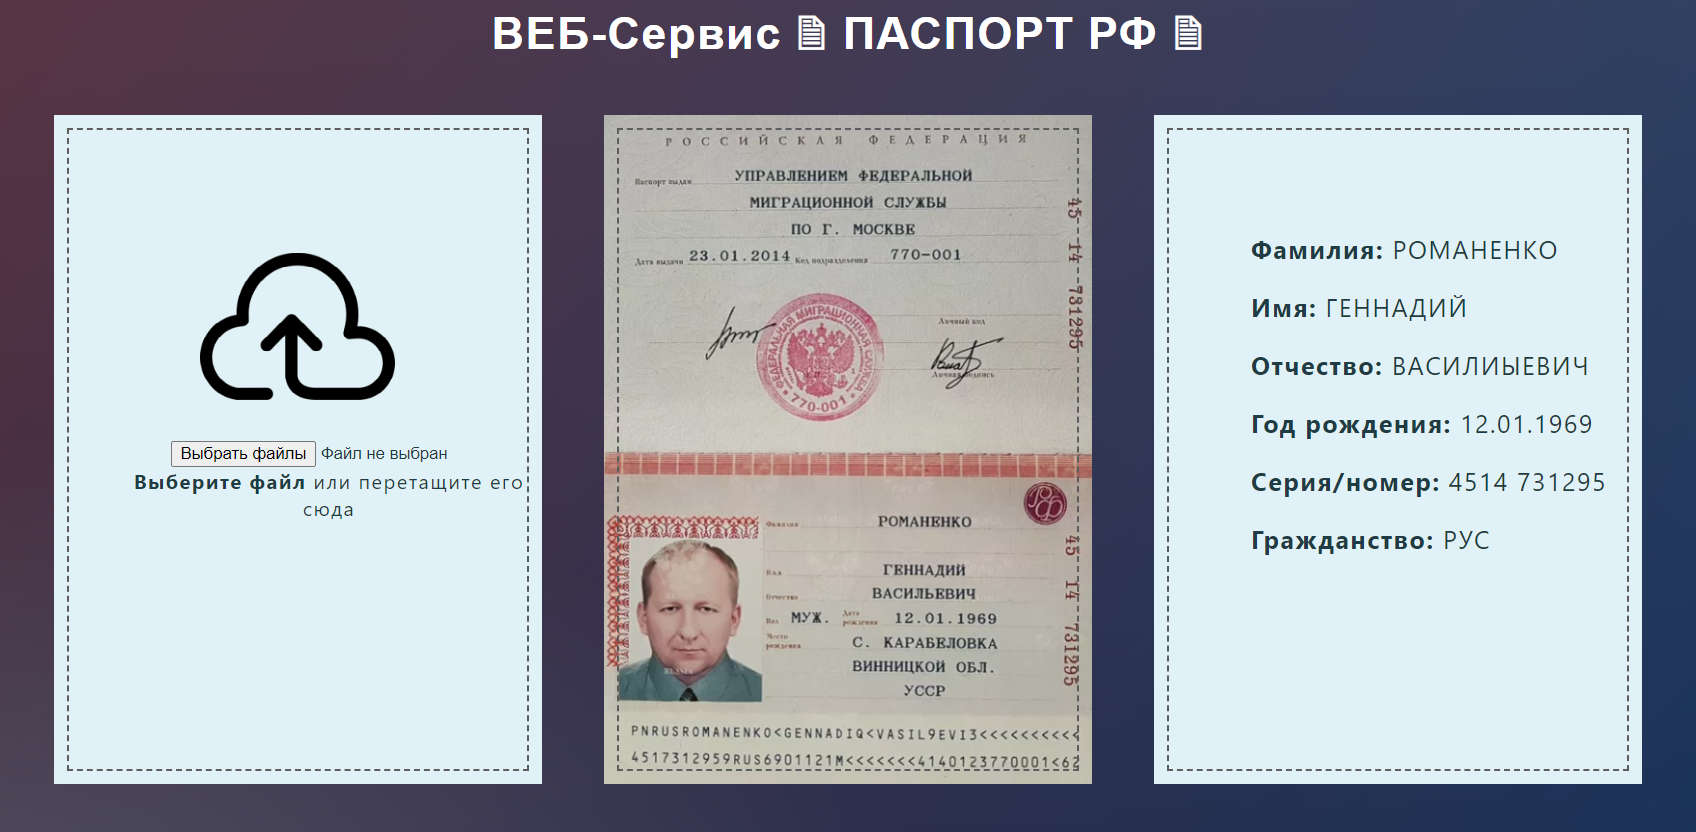
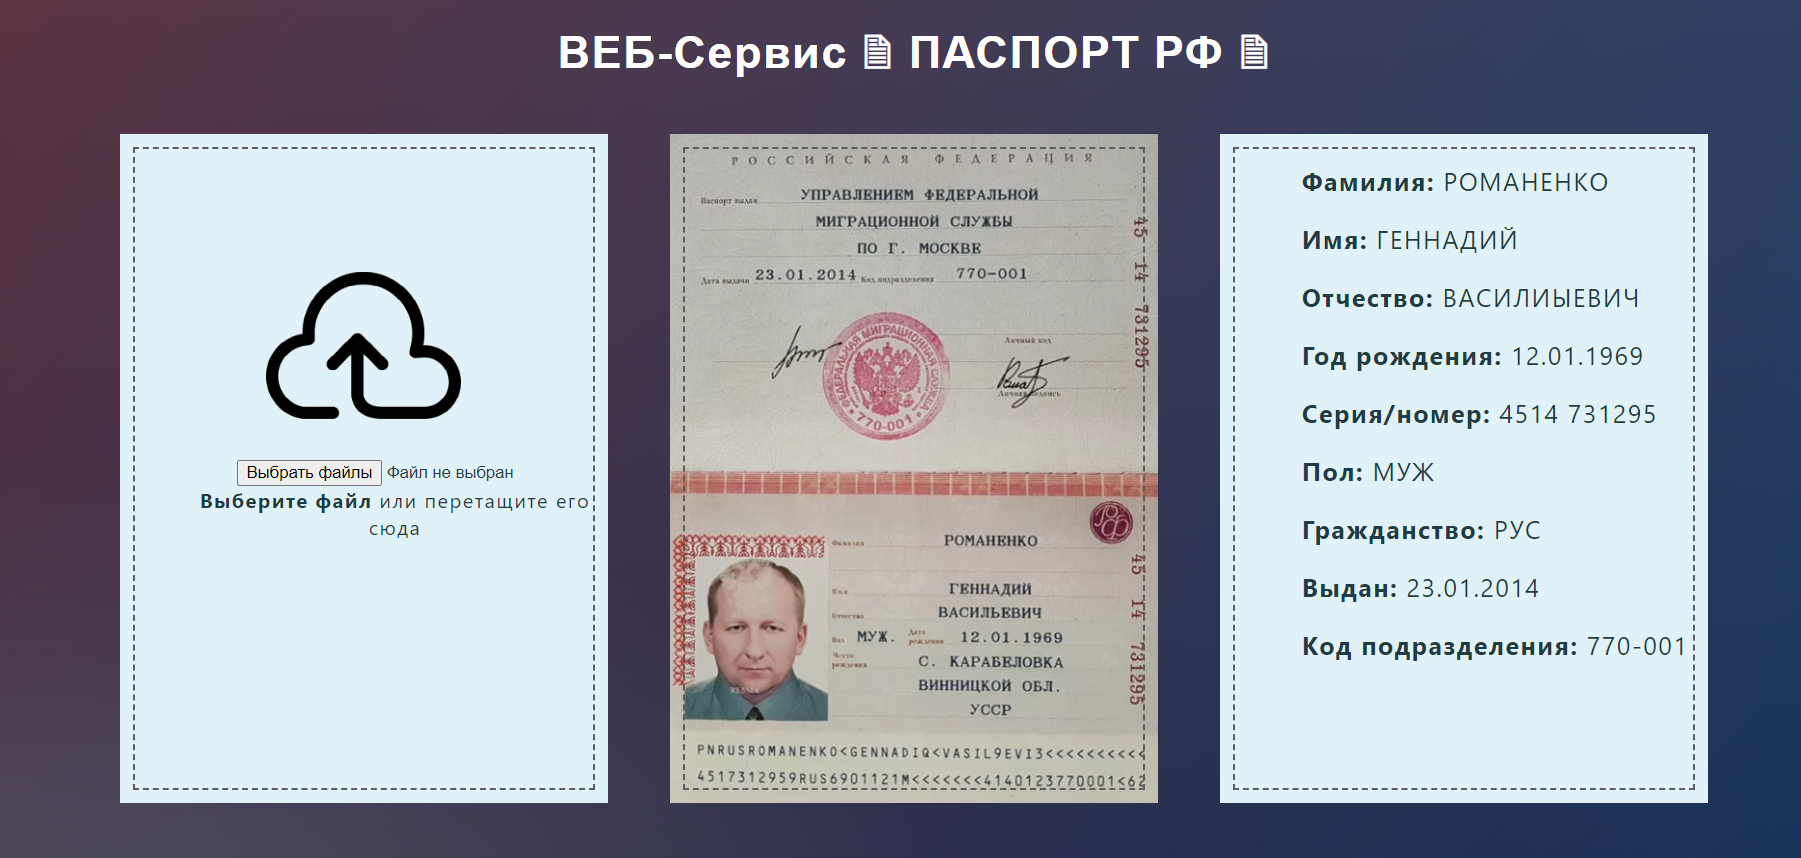
feat(ocr): Add new attrs

Changed region(s): [[0.0312, 0.125, 0.9688, 0.9688], [0.2812, 0.0, 0.7188, 0.0938]]

diff --git a/templates/index.html b/templates/index.html
@@ -38,12 +38,15 @@
     <div class="block">
         <form id="export-container" action="send.php">
             <div align="left">
-                <p><b>Фамилия:</b> {{ surname }}</p>
-                <p><b>Имя:</b> {{ name }}</p>
-                <p><b>Отчество:</b> {{ second }}</p>
-                <p><b>Год рождения:</b> {{ year }}</p>
-                <p><b>Серия/номер:</b> {{ series }} {{ num }}</p>
-                <p><b>Гражданство:</b> {{ ctz }}</p>
+                <p><b>Фамилия:</b> {{ surname }} </p>
+                <p><b>Имя:</b> {{ name }} </p>
+                <p><b>Отчество:</b> {{ second }} </p>
+                <p><b>Год рождения:</b> {{ year }} </p>
+                <p><b>Серия/номер:</b> {{ series }} {{ num }} </p>
+                <p><b>Пол:</b> {{ gender }} </p>
+                <p><b>Гражданство:</b> {{ ctz }} </p>
+                <p><b>Выдан:</b> {{ release }} </p>
+                <p><b>Код подразделения:</b> {{ code }} </p>
             </div>
         </form>
     </div>

diff --git a/pasportocr.py b/pasportocr.py
@@ -55,17 +55,16 @@ class PasportOCR:
         except AttributeError:
             print("Изображение не загрузилось, проверьте путь")
         
-        # Фильтры ( оттенки серого, размытие по Гауссу, пороговая обработка)
+        # Фильтры (оттенки серого, размытие по Гауссу, пороговая обработка)
         gray = cv2.cvtColor(img, cv2.COLOR_BGR2GRAY)
         blur = cv2.GaussianBlur(gray, (3,3), 0)
         thresh = cv2.threshold(blur, 0, 255, cv2.THRESH_BINARY+cv2.THRESH_OTSU)[1]
         kernel = np.ones((7,7), np.uint8)
-        kernel = cv2.getStructuringElement(cv2.MORPH_RECT,(3, 3)) 
+        kernel = cv2.getStructuringElement(cv2.MORPH_RECT,(3, 3))
         
         # Морфология изображения (расширение, открытие, закрытие изображения)
-        # global morph
-        morph = cv2.dilate(img, kernel, iterations=9)
-        morph = cv2.morphologyEx(thresh, cv2.MORPH_OPEN, kernel)
+        morph = cv2.dilate(img, kernel, iterations=9)             # 
+        morph = cv2.morphologyEx(thresh, cv2.MORPH_OPEN, kernel)  # Morphological Gradient
         morph = cv2.morphologyEx(morph, cv2.MORPH_CLOSE, kernel)
         
         # Поиск контуров (извлечение внешних контуров, получение только 2х основных точек)
@@ -84,7 +83,7 @@ class PasportOCR:
         cv2.drawContours(page, [big_contour], 0, (255,255,255), -1)
         peri = cv2.arcLength(big_contour, True)
         corners = cv2.approxPolyDP(big_contour, 0.04 * peri, True)
-        global polygon
+
         polygon = img.copy()
         cv2.polylines(polygon, [corners], True, (0,0,255), 3, cv2.LINE_AA)
         yarr = list()
@@ -103,7 +102,7 @@ class PasportOCR:
         pX = max(yarr)
         y = min(xarr)
         pY = max(xarr)
-        global photo
+
         photo = img[y:pY, x:pX]
         return photo
 
@@ -160,17 +159,27 @@ class PasportOCR:
         if mrzText[0][0:1] != 'P':
             del mrzText[0]
 
+        # Проверка числа символов
+        print("Символов в первой строке:", len(mrzText[0]))
+        print("Символов во второй строке:", len(mrzText[1]))
+
         # Разбор строки по элементам
         el1 = mrzText[0]
         el2 = mrzText[1]
+
+        # Частые ошибки OCR
         el1 = el1.replace('1','I')
         el2 = el2.replace('O','0')
+
+        # Парсинг ФИО
         el1 = el1[5:]
         el1 = re.split("<<|<|\n", el1)
         el2 = re.split("RUS|<", el2)
+
         el1 = list(filter(None, el1))
         el1 = list(map(list, el1))
         el1 = el1[0:3]
+
         el2 = list(filter(None, el2))
 
         for i in el1:
@@ -178,26 +187,47 @@ class PasportOCR:
                 ind = eng.index(str(j))
                 i[c] = rus[ind]
         
+        
+        # Список в строку
         surname = ''.join(el1[0])
         name = ''.join(el1[1])
         otch = ''.join(el1[2])
+
+        # Серия, номер, дата
         seria = el2[0][0:3] + el2[2][0:1]
         nomer = el2[0][3:9]
         data = el2[1][0:6]
         
         # Транслитерация гражданства
         citizen = ""
-        for i in mrzText[0][2:5]:
+        print("MRZ:", mrzText)
+        for i in mrzText[1][10:13]:
             citizen_element_eng = eng.index(i)
             citizen_element_ru = rus[citizen_element_eng]
             citizen = citizen + citizen_element_ru
+
+        # Определение пола
+        if "M" in mrzText[1]:
+            gender = "МУЖ"
+        elif "F" in mrzText[1]:
+            gender = "ЖЕН"
+        else:
+            gender = "Не определено"
+            
         
+        # Дата рождения
         if int(data[0:1]) > 2:
             data = '19' + data
         else:
             data = '20' + data
         
         data = data[6:8] + '.' + data[4:6] + '.' + data[0:4]
+
+        # Дата выдачи
+        release = f"{mrzText[1][-11:-9]}.{mrzText[1][-13:-11]}.20{mrzText[1][-15:-13]}"
+
+        # Код подразделения
+        code = f"{mrzText[1][-9:-6]}-{mrzText[1][-6:-3]}"
         
         pasdata = {
             'SRN': surname, 
@@ -206,7 +236,10 @@ class PasportOCR:
             'BRD' : data, 
             'SER': seria, 
             'NUB': nomer,
-            'CTZ': citizen
+            'GND': gender,
+            'CTZ': citizen,
+            'RLS': release,
+            'COD': code,
         }
             
         return pasdata

diff --git a/app.py b/app.py
@@ -21,7 +21,10 @@ def predict():
         year=pasport_data["BRD"], 
         series=pasport_data["SER"], 
         num=pasport_data["NUB"],
+        gender = pasport_data["GND"],
         ctz=pasport_data["CTZ"],
+        release=pasport_data["RLS"],
+        code=pasport_data["COD"],
     )
 
 
